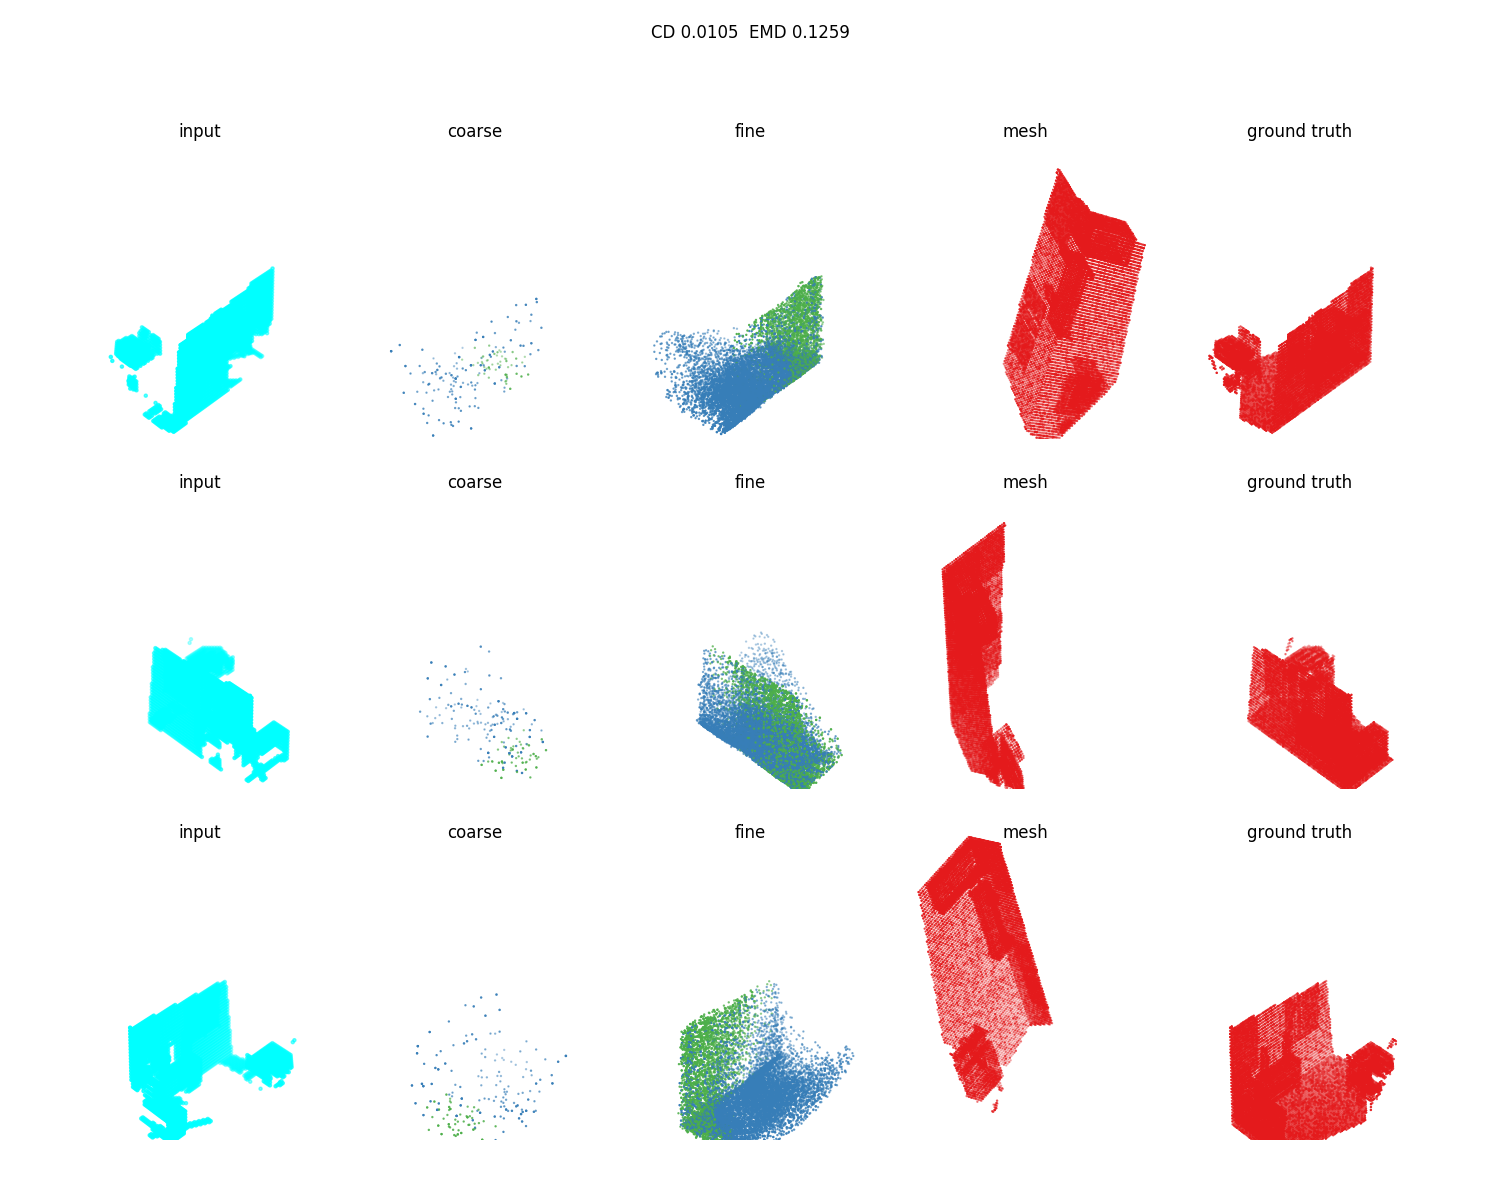
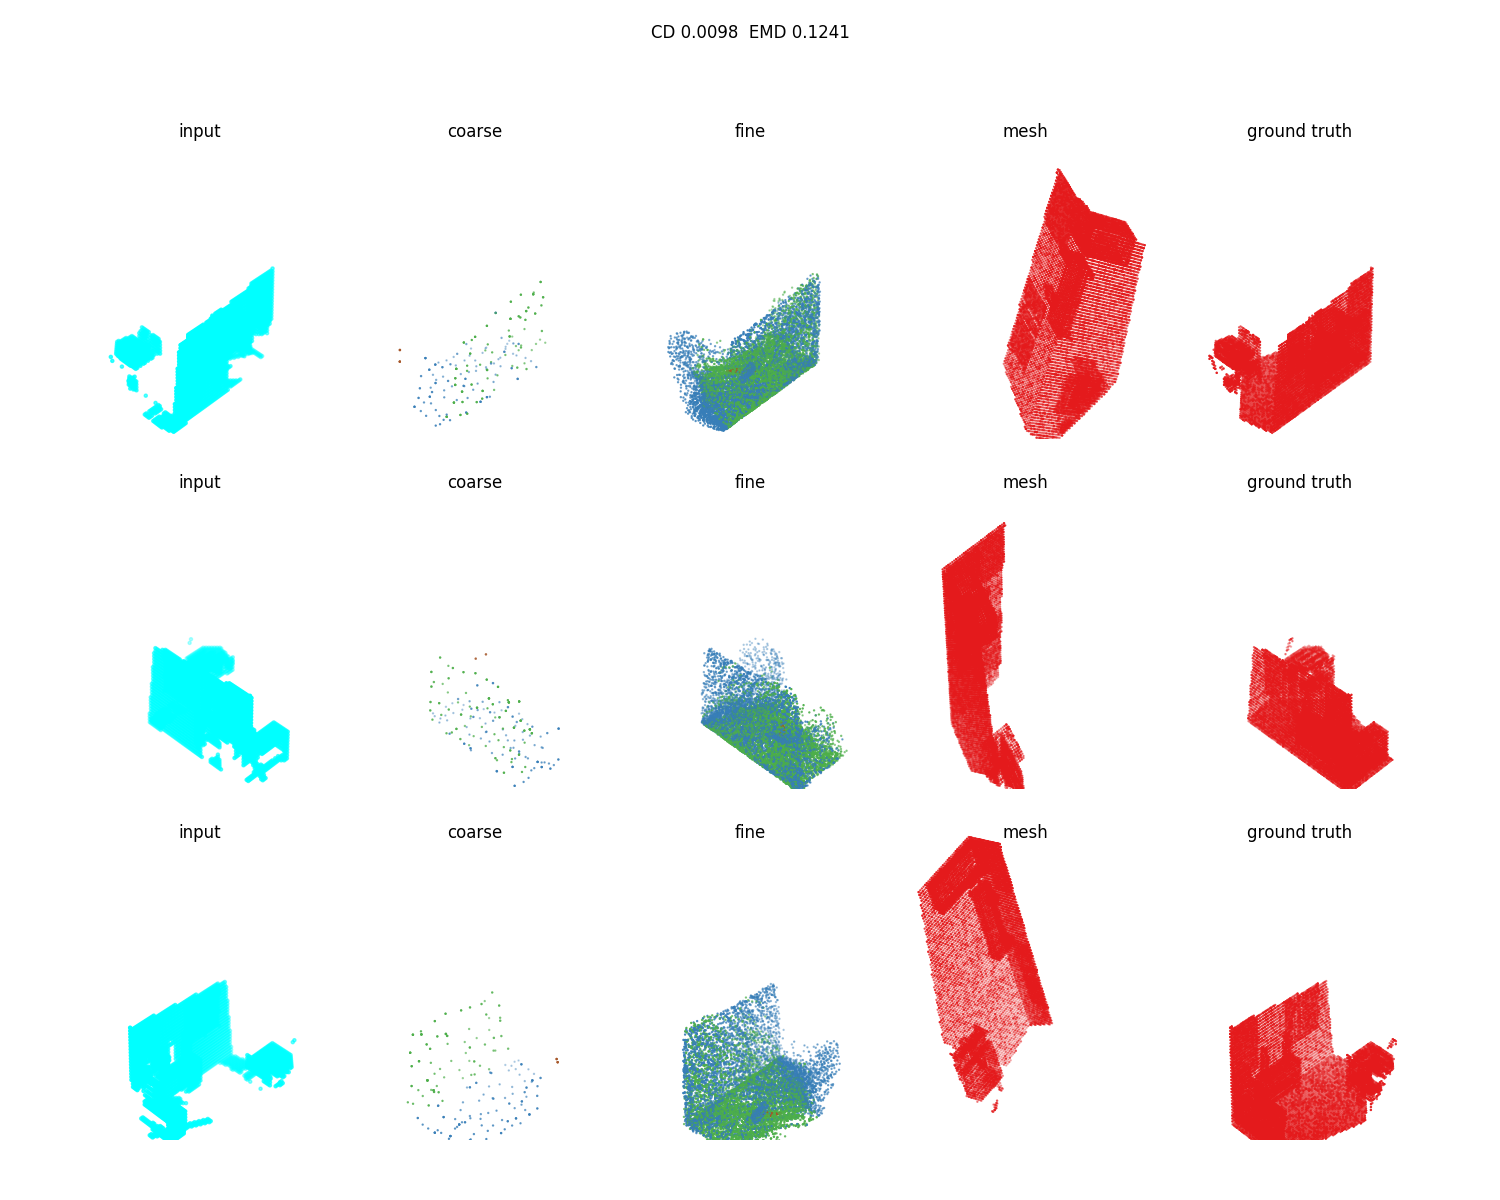
add plots

diff --git a/models/pcn_reg.py b/models/pcn_reg.py
@@ -146,7 +146,6 @@ class Model:
         update_coarse = add_valid_summary('valid/coarse_loss', loss_coarse)
 
         loss_fine = chamfer(fine[:,:,0:3], gt[:,:,0:3])
-        """
         _, retb, _, retd = tf_nndistance.nn_distance(fine[:,:,0:3], gt[:,:,0:3])
         for i in range(np.shape(gt)[0]):
             index = tf.expand_dims(retb[i], -1)
@@ -156,7 +155,6 @@ class Model:
                         0.97 * sem_gt * tf.log(1e-6 + sem_feat) + (1 - 0.97) *
                         (1 - sem_gt) * tf.log(1e-6 + 1 - sem_feat), [1]))
             loss_fine += 0.01 * loss_sem_fine
-        """
         add_train_summary('train/fine_loss', loss_fine)
         update_fine = add_valid_summary('valid/fine_loss', loss_fine)
 
